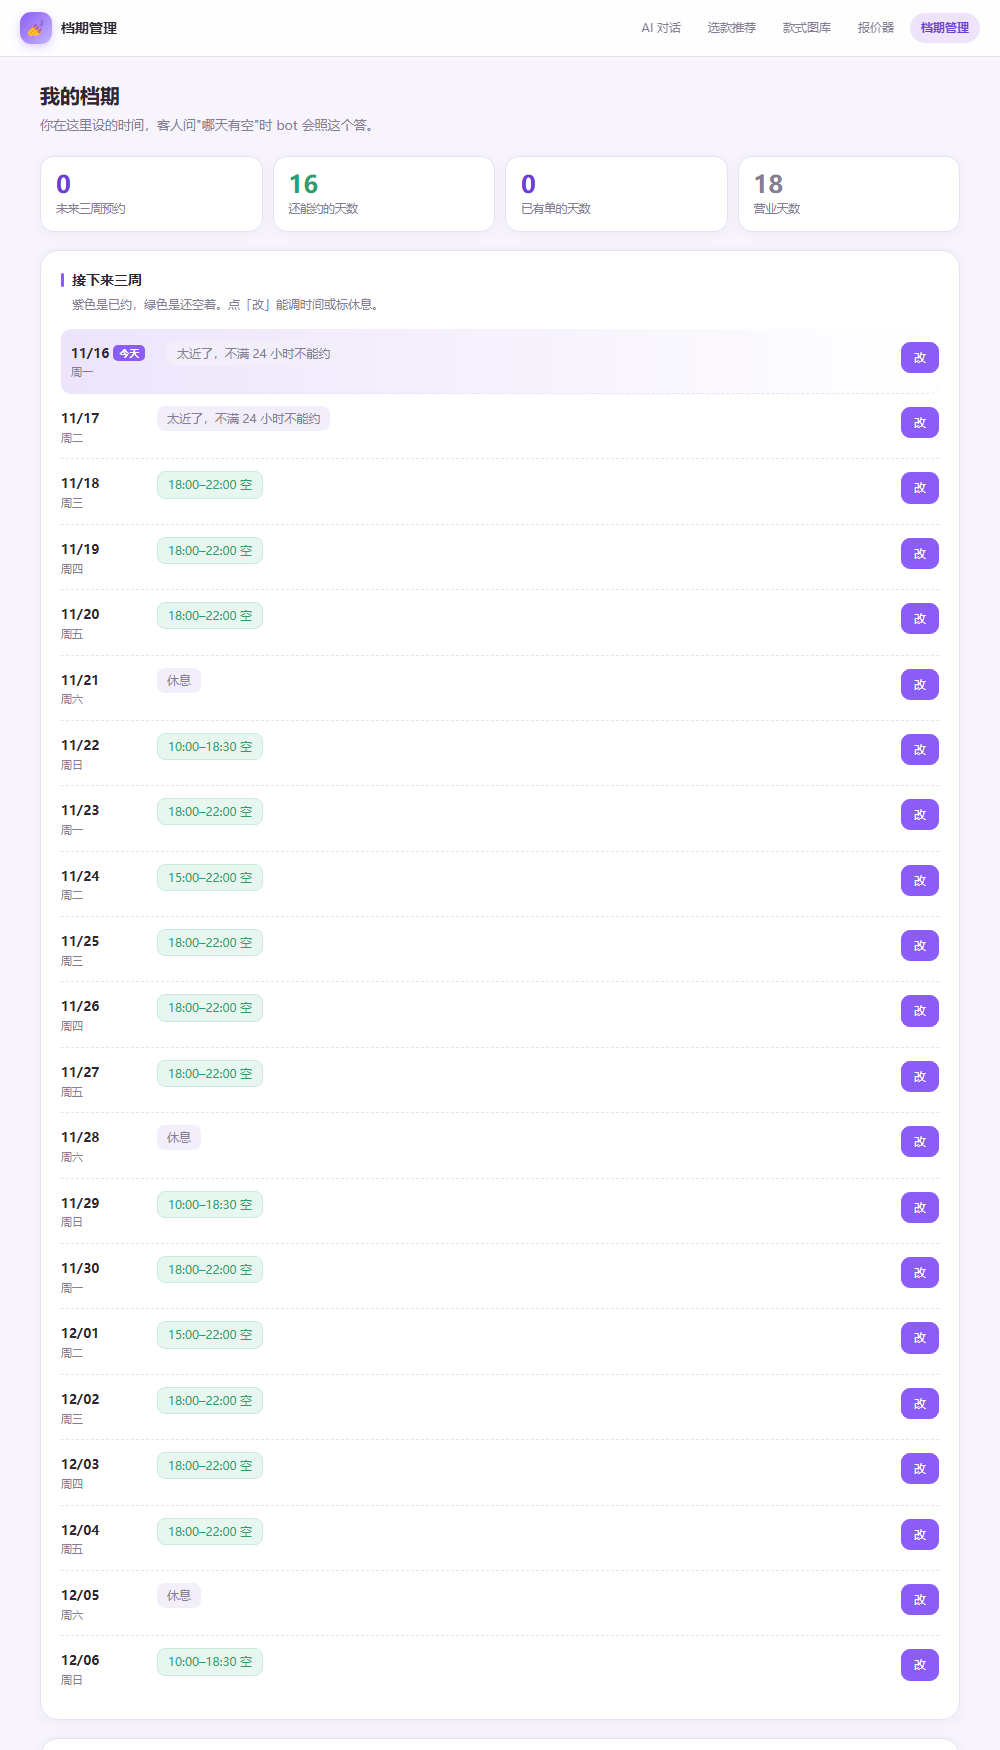
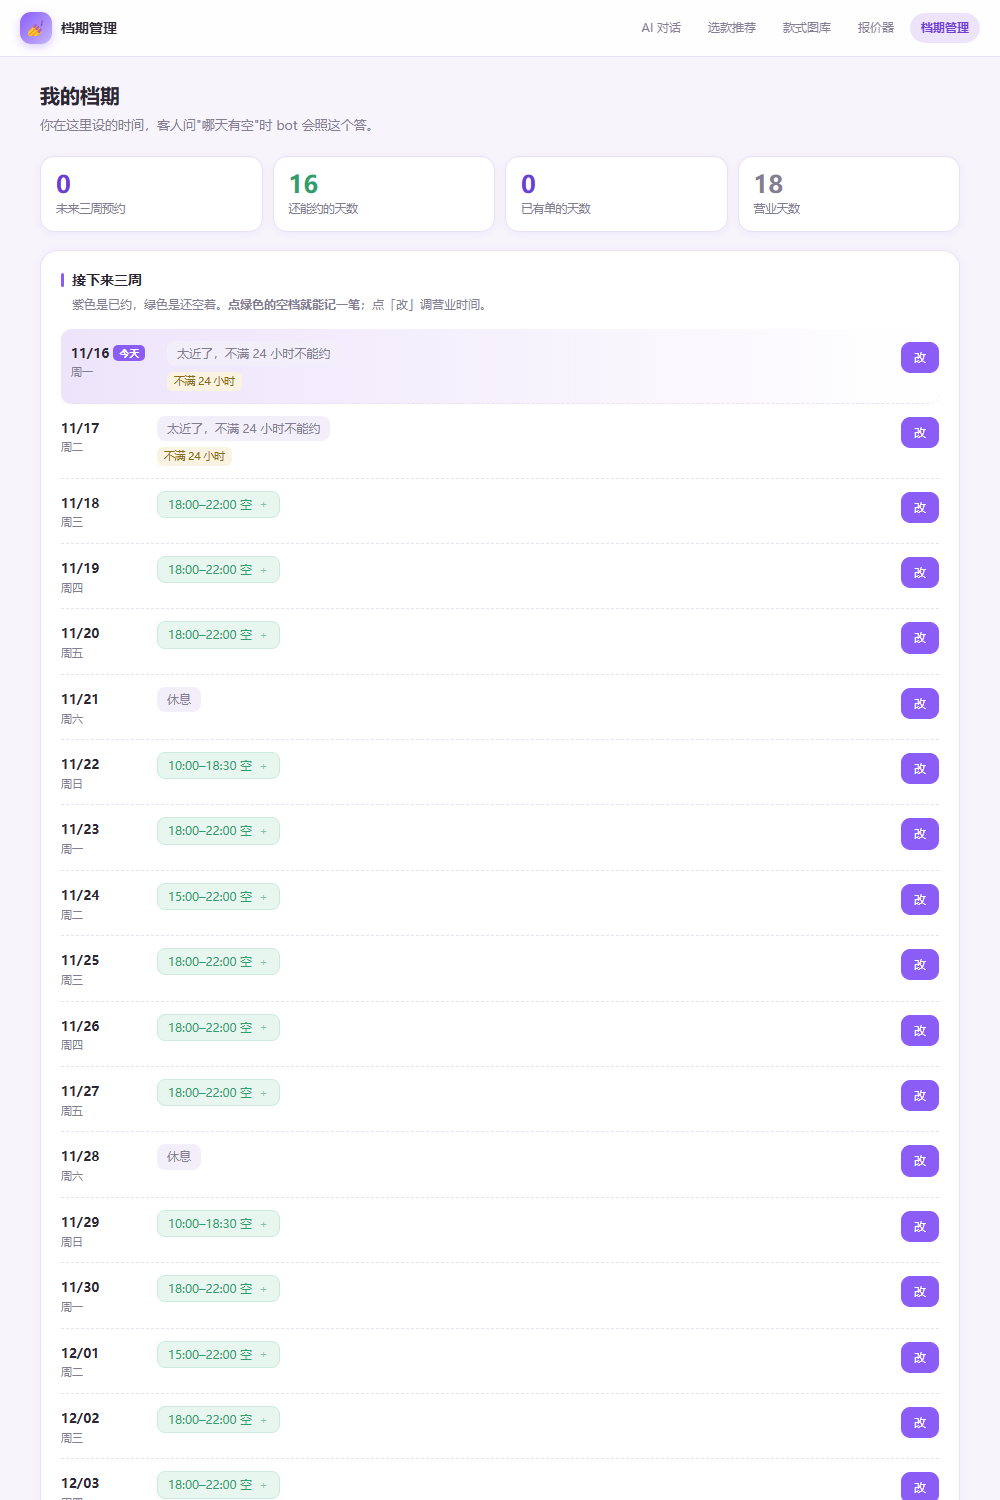
空档点一下就能记一笔，只填称呼

diff --git a/web/schedule.html b/web/schedule.html
@@ -119,7 +119,15 @@
     font-size: 12px; padding: 3px 10px; border-radius: 8px;
     font-variant-numeric: tabular-nums; display: inline-flex; align-items: center; gap: 5px;
   }
-  .blk.free { background: var(--ok-bg); color: var(--ok); border: 1px solid #cbeadd; }
+  .blk.free {
+    background: var(--ok-bg); color: var(--ok); border: 1px solid #cbeadd;
+    cursor: pointer; transition: .15s;
+  }
+  .blk.free:hover {
+    background: #d6f0e4; border-color: #9fd9c3;
+    box-shadow: 0 2px 8px rgba(47,158,110,.18);
+  }
+  .blk.free::after { content: "＋"; font-size: 11px; opacity: .55; margin-left: 1px; }
   .blk.taken { background: var(--purple-soft); color: var(--purple-deep); border: 1px solid #dcccf7; }
   .blk.taken::before { content: "●"; font-size: 8px; }
   .blk .who { font-size: 11px; opacity: .82; }
@@ -174,6 +182,24 @@
   }
   .form-row input:focus, .form-row select:focus { border-color: #b79bf2; }
 
+  /* 快速记一笔 */
+  .sheet-inner.quick { max-width: 420px; }
+  .q-row { display: flex; gap: 8px; margin-bottom: 10px; }
+  .q-row input, .q-row select {
+    flex: 1; font: inherit; font-size: 14px; padding: 11px 13px;
+    border: 1px solid var(--line); border-radius: 12px; background: #fff;
+    outline: none; min-width: 0;
+  }
+  .q-row input:focus, .q-row select:focus { border-color: #b79bf2; }
+  .q-row select { flex: 0 0 130px; cursor: pointer; }
+  .more-toggle {
+    background: none; border: 0; color: var(--muted); font: inherit;
+    font-size: 12.5px; cursor: pointer; padding: 2px 0; margin-bottom: 4px;
+  }
+  .more-toggle:hover { color: var(--purple-deep); }
+  .q-more { display: none; }
+  .q-more.open { display: block; }
+
   /* 订单 */
   .order {
     display: grid; grid-template-columns: 1fr auto; gap: 10px;
@@ -223,7 +249,7 @@
 
   <div class="card">
     <h2>接下来三周</h2>
-    <p class="hint">紫色是已约，绿色是还空着。点「改」能调时间或标休息。</p>
+    <p class="hint">紫色是已约，绿色是还空着。<b>点绿色的空档就能记一笔</b>；点「改」调营业时间。</p>
     <div id="days"></div>
   </div>
 
@@ -238,6 +264,42 @@
     <p class="hint">客人自己约的、你私下接的，都记在这里。记了之后那段时间就不会再被约。</p>
     <button class="btn-s primary btn-lg" id="addOrder" style="margin-bottom:14px">＋ 手动记一笔预约</button>
     <div id="orders"></div>
+  </div>
+</div>
+
+<!-- 点空档快速记一笔 -->
+<div class="sheet" id="quickSheet">
+  <div class="sheet-inner quick">
+    <h3>记一笔</h3>
+    <div class="sd" id="qInfo"></div>
+
+    <input type="hidden" id="qDate">
+    <input type="hidden" id="qStart">
+
+    <div class="q-row">
+      <input type="text" id="qName" placeholder="客人怎么称呼">
+    </div>
+    <div class="q-row">
+      <select id="qHours">
+        <option value="2">做 2 小时</option>
+        <option value="2.5" selected>做 2.5 小时</option>
+        <option value="3">做 3 小时</option>
+        <option value="3.5">做 3.5 小时</option>
+        <option value="4">做 4 小时</option>
+      </select>
+      <input type="text" id="qStyle" placeholder="什么款（可不填）">
+    </div>
+
+    <button class="more-toggle" id="qMoreToggle">＋ 微信、备注</button>
+    <div class="q-more" id="qMore">
+      <div class="q-row"><input type="text" id="qContact" placeholder="微信 / 手机"></div>
+      <div class="q-row"><input type="text" id="qNote" placeholder="备注：过敏、特殊要求…"></div>
+    </div>
+
+    <div class="sheet-foot">
+      <button id="qCancel">取消</button>
+      <button class="save" id="qSave">记下</button>
+    </div>
   </div>
 </div>
 
@@ -439,7 +501,10 @@ function renderDays() {
           ...d.takenSegments.map(
             (t) => `<span class="blk taken">${t.start}–${t.end} <span class="who">${t.name || ""}</span></span>`
           ),
-          ...d.freeSegments.map((f) => `<span class="blk free">${f[0]}–${f[1]} 空</span>`),
+          ...d.freeSegments.map(
+            (f) =>
+              `<span class="blk free" data-quick="${d.date}" data-from="${f[0]}" data-to="${f[1]}" title="点一下记一笔">${f[0]}–${f[1]} 空</span>`
+          ),
         ];
         const hint = d.tooSoon
           ? `<span class="d-off">太近了，不满 ${d.noticeHours} 小时不能约</span>`
@@ -464,10 +529,59 @@ function renderDays() {
     .join("");
 
   $("days").onclick = (e) => {
+    const q = e.target.closest("[data-quick]");
+    if (q) {
+      openQuick(q.dataset.quick, q.dataset.from, q.dataset.to);
+      return;
+    }
     const b = e.target.closest("[data-edit]");
     if (b) openSheet(b.dataset.edit);
   };
 }
+
+/* ---------- 点空档直接记一笔 ---------- */
+function openQuick(date, from, to) {
+  const d = DATA.days.find((x) => x.date === date);
+  $("qDate").value = date;
+  $("qStart").value = from;
+  $("qInfo").textContent = `${date.slice(5).replace("-", "/")} ${d?.weekday || ""}　${from} 开始（这段原本空到 ${to}）`;
+  $("qName").value = "";
+  $("qStyle").value = "";
+  $("qMore").classList.remove("open");
+  $("quickSheet").classList.add("on");
+  setTimeout(() => $("qName").focus(), 180);
+}
+
+$("qCancel").onclick = () => $("quickSheet").classList.remove("on");
+$("quickSheet").onclick = (e) => { if (e.target === $("quickSheet")) $("quickSheet").classList.remove("on"); };
+
+$("qMoreToggle").onclick = () => {
+  $("qMore").classList.toggle("open");
+  if ($("qMore").classList.contains("open")) setTimeout(() => $("qContact").focus(), 150);
+};
+
+$("qSave").onclick = async () => {
+  const name = $("qName").value.trim();
+  if (!name) { toast("填个称呼就行"); $("qName").focus(); return; }
+  const body = {
+    date: $("qDate").value,
+    start: $("qStart").value,
+    hours: Number($("qHours").value),
+    name,
+    contact: $("qContact").value,
+    style: $("qStyle").value,
+    note: $("qNote").value,
+  };
+  const r = await fetch("/api/orders/create", {
+    method: "POST",
+    headers: { "content-type": "application/json" },
+    body: JSON.stringify(body),
+  }).then((x) => x.json());
+  if (r.error) { toast(r.error); return; }
+  $("quickSheet").classList.remove("on");
+  toast(r.warning || r.summary);
+  await load();
+};
 
 /* ---------- 编辑弹层 ---------- */
 function openSheet(date) {
